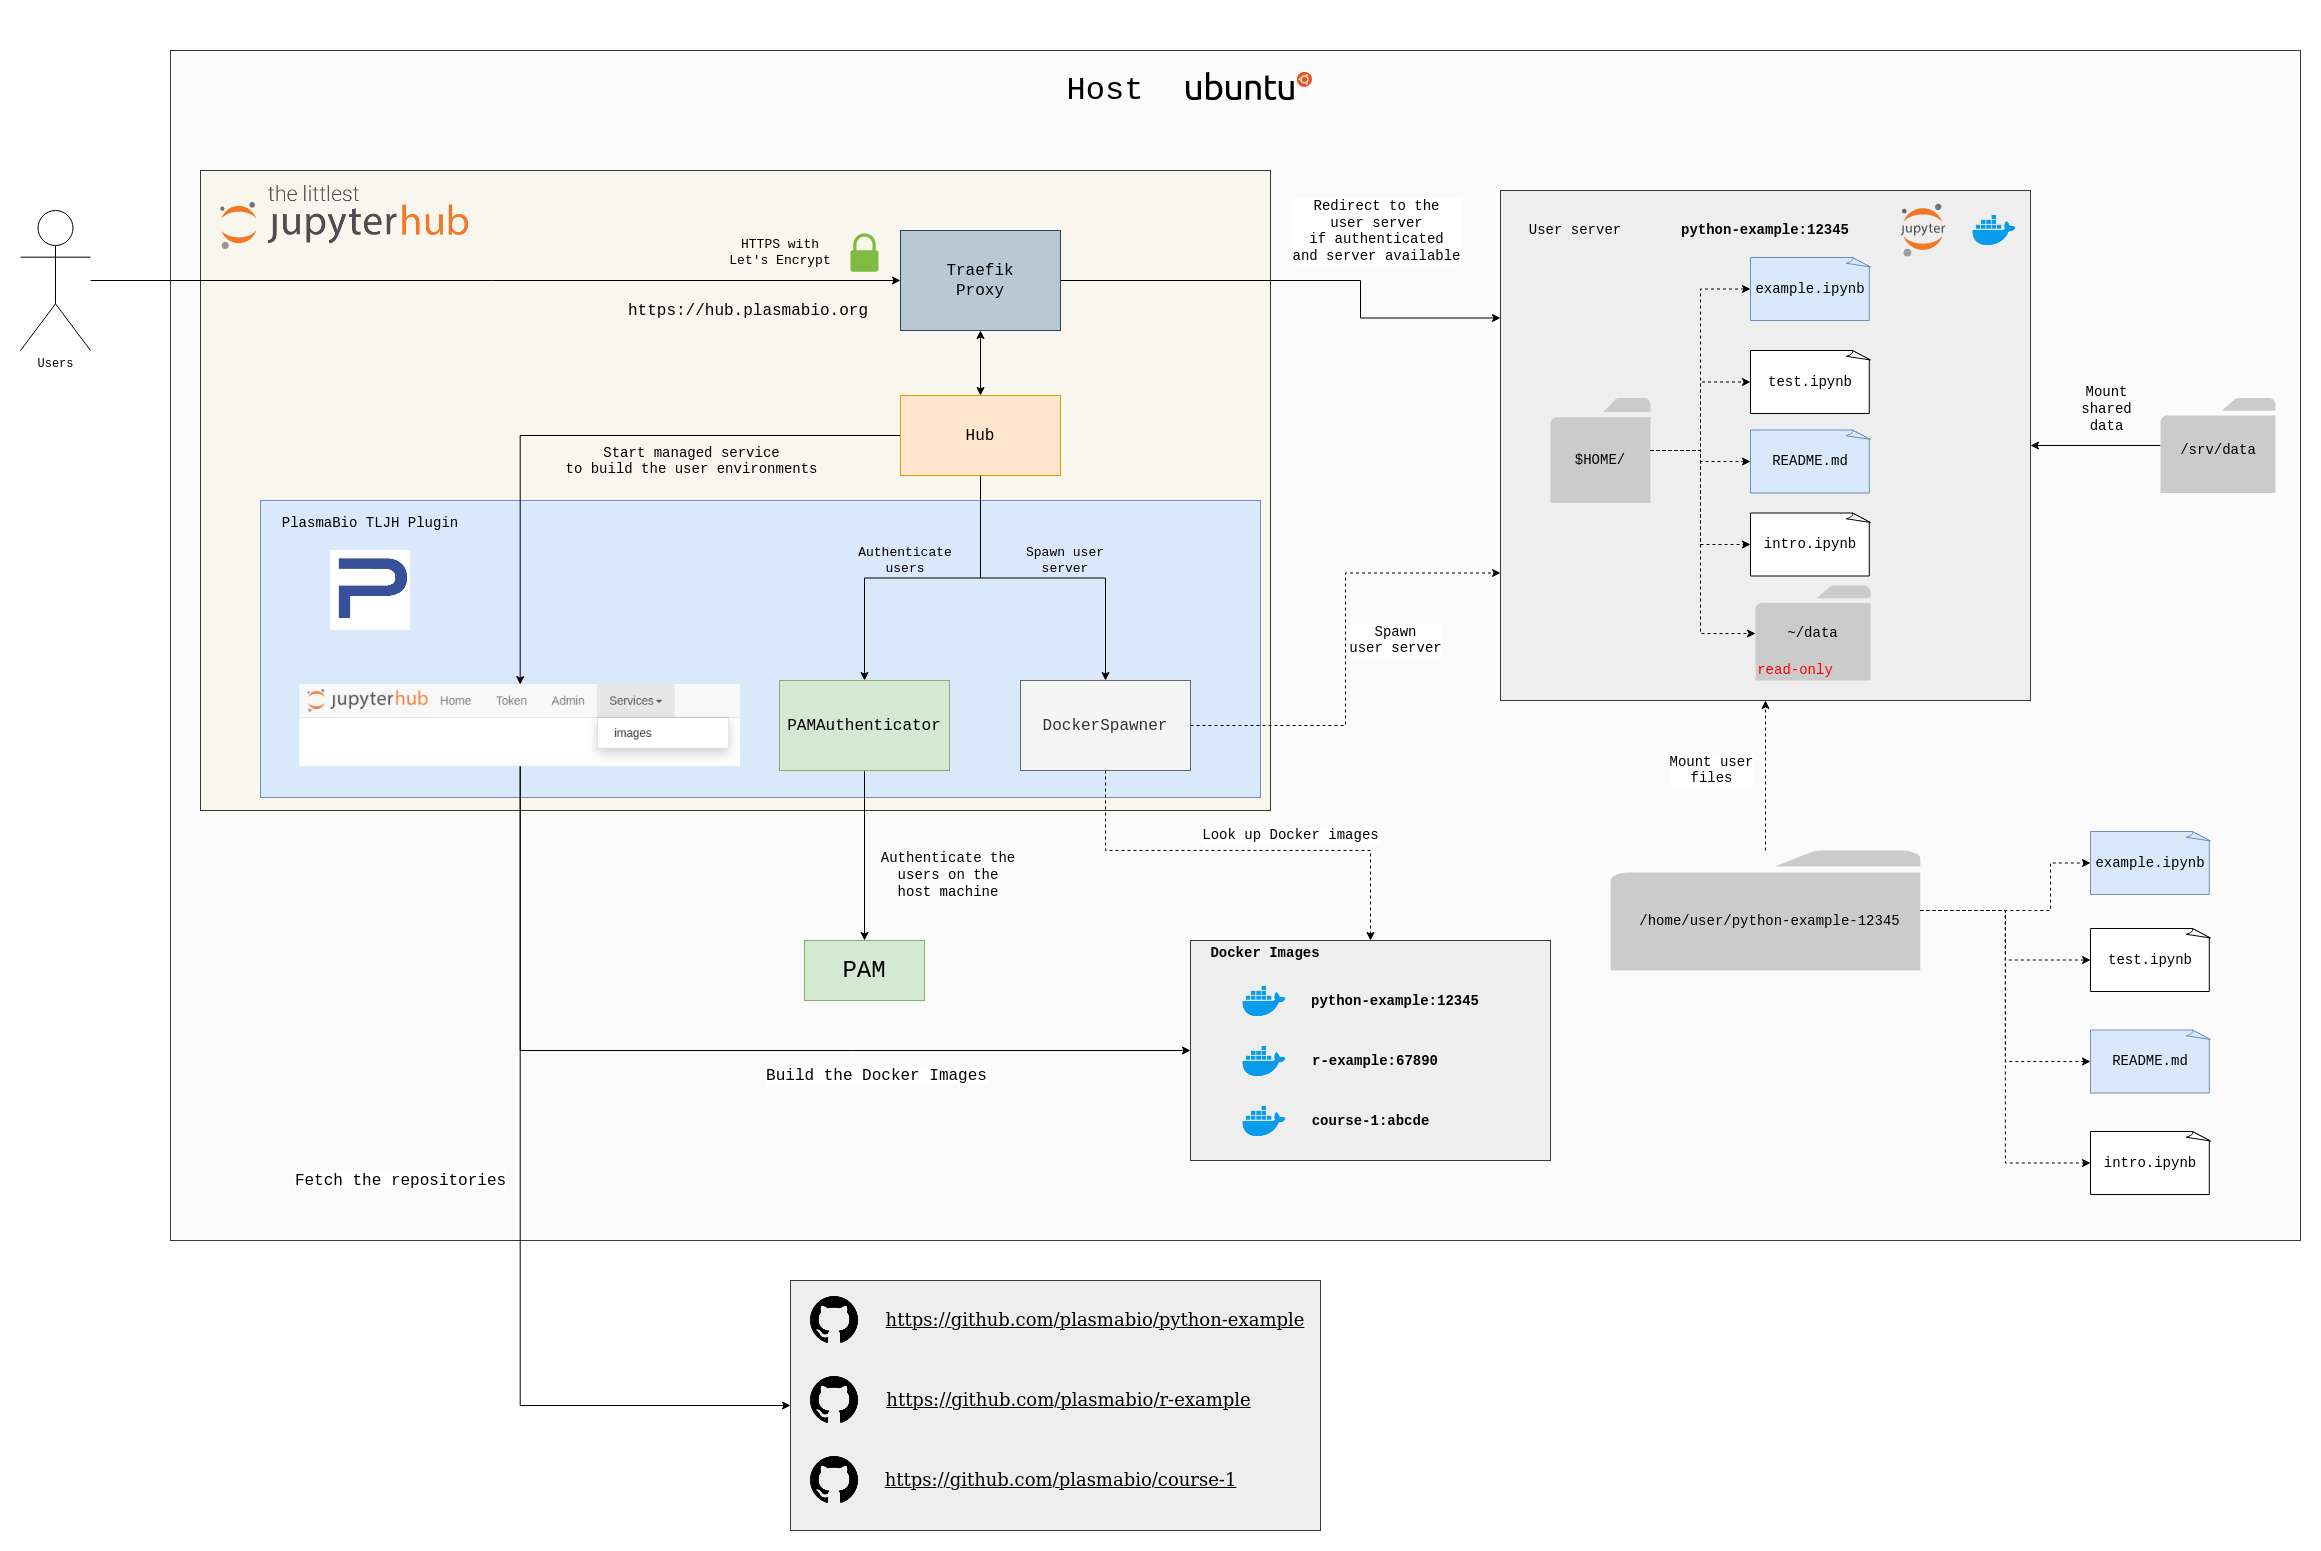
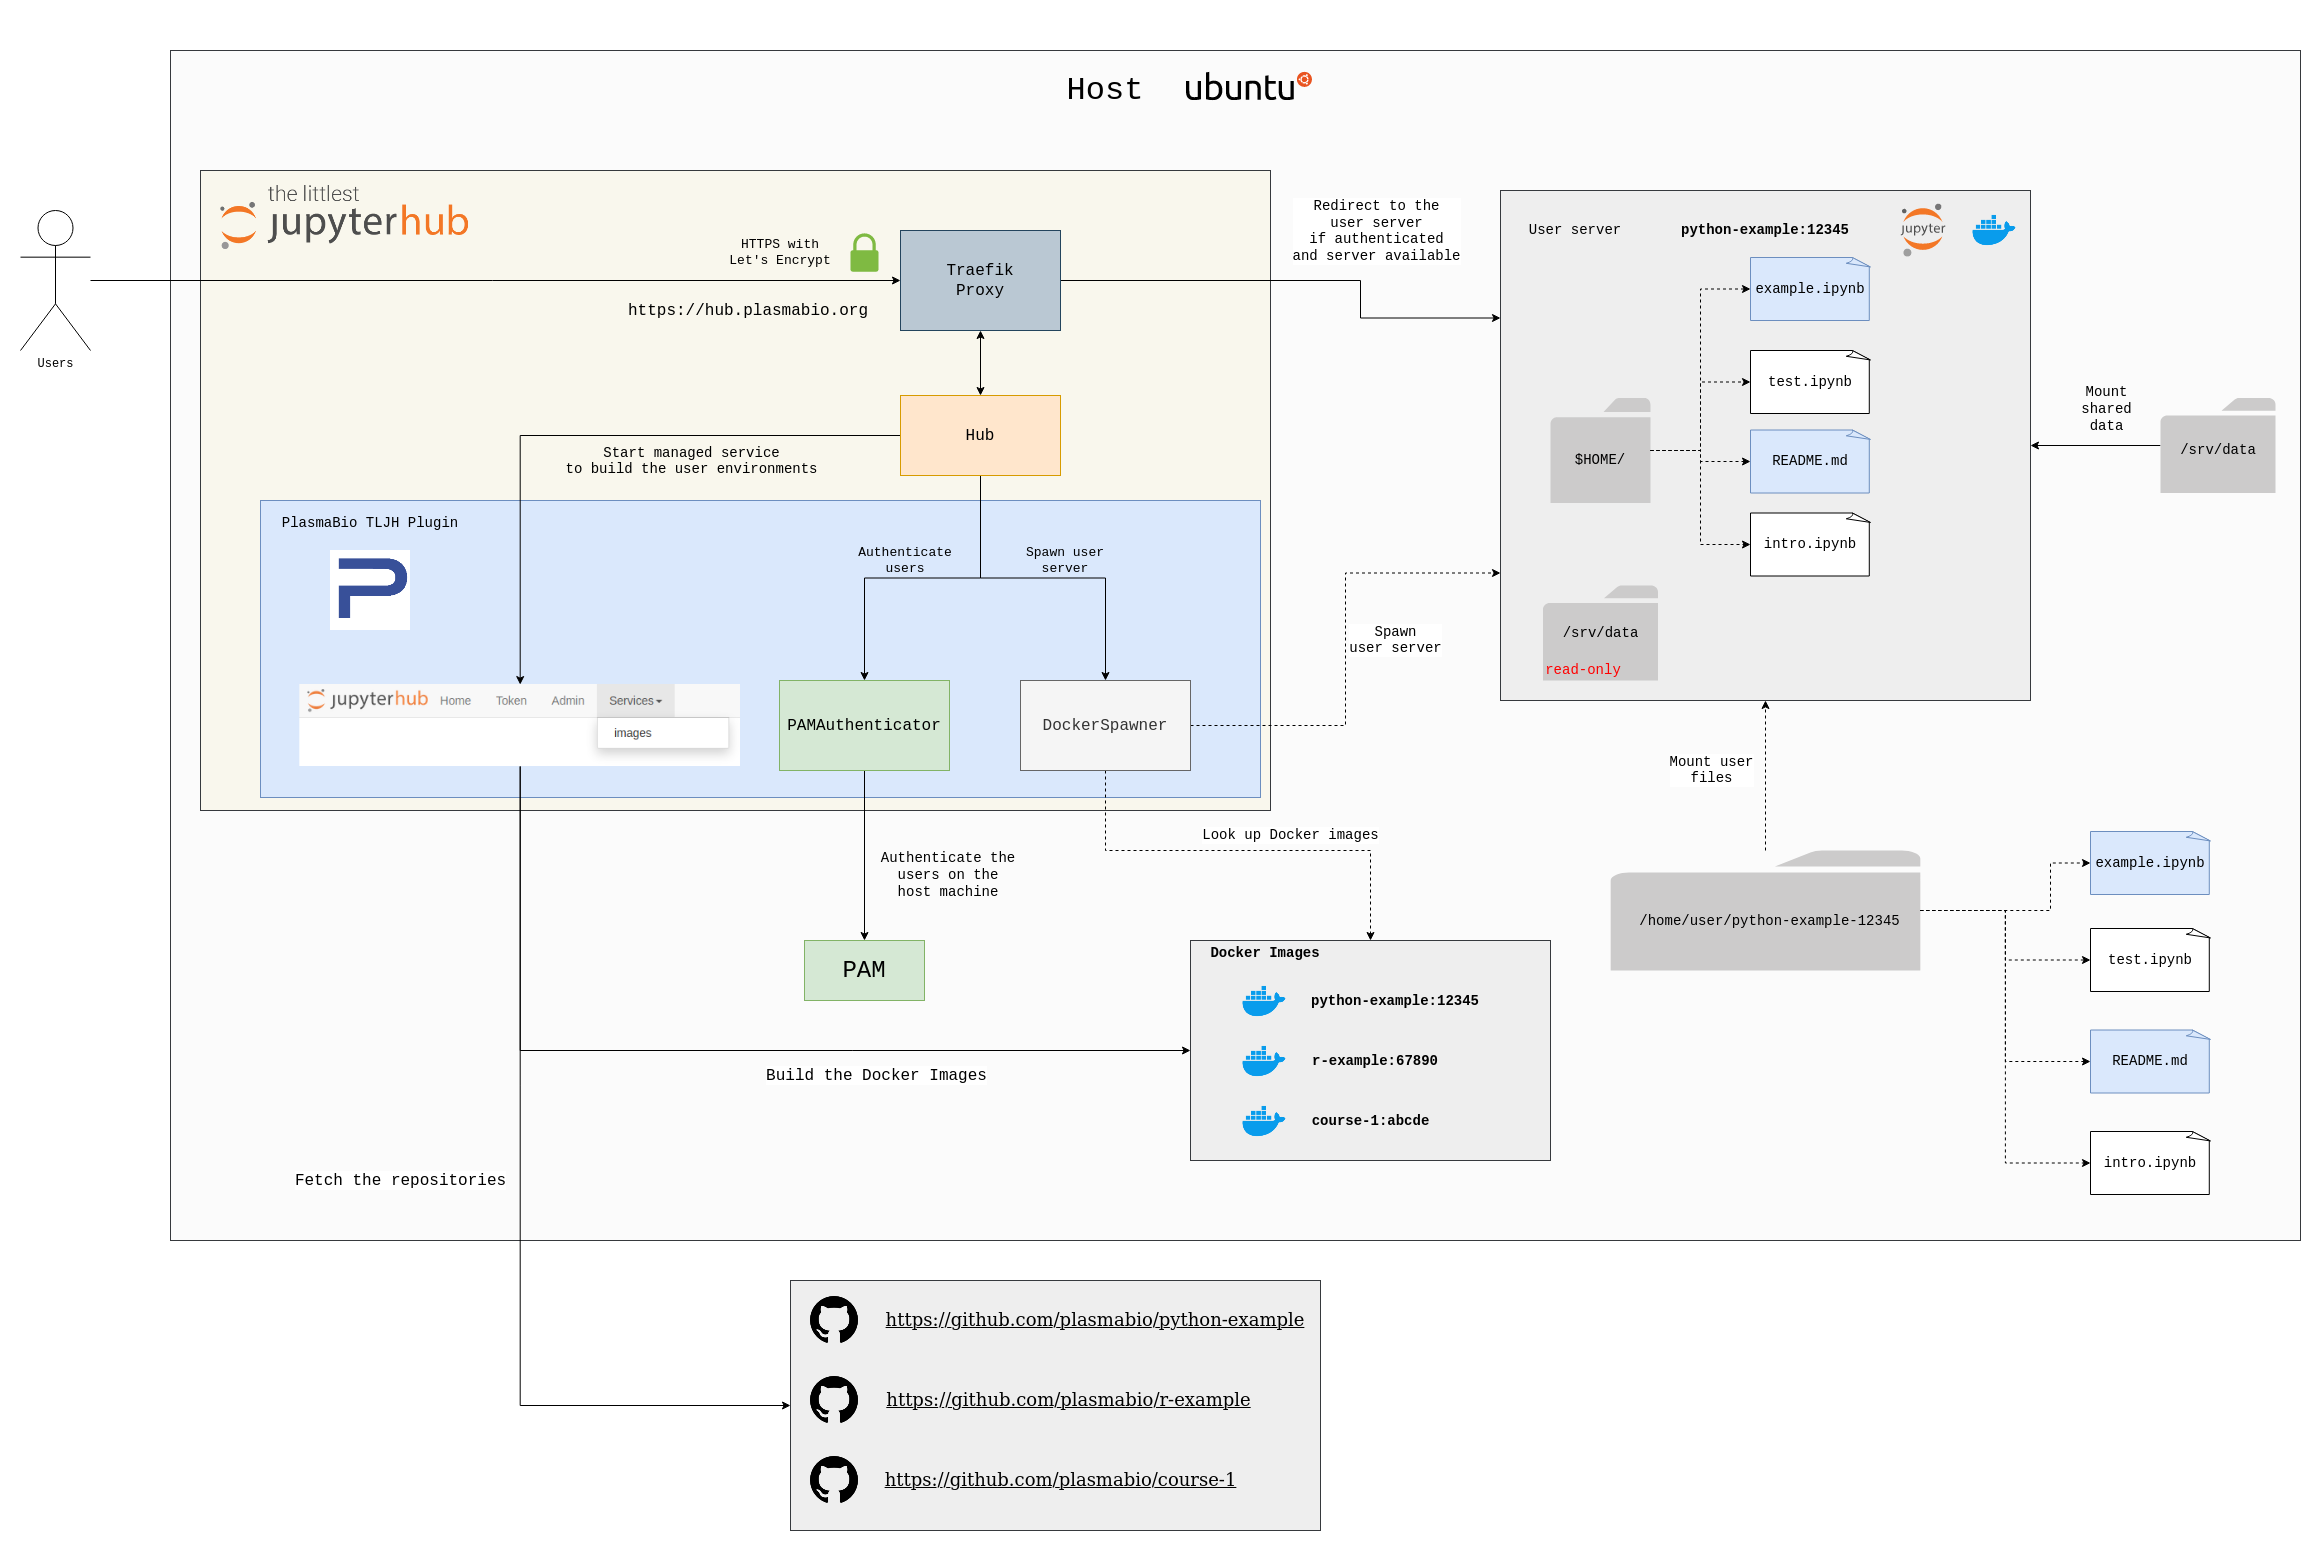
Update documentation on user home dir in the container

Changed region(s): [[0.7445, 0.3714, 0.8065, 0.4642], [0.6514, 0.3714, 0.7135, 0.4642]]

diff --git a/docs/configuration/persistence.rst b/docs/configuration/persistence.rst
@@ -32,10 +32,11 @@ For example when the user ``foo`` starts their server, the list of processes loo
 The following steps happen when a user starts their server:
 
 1. Mount the directory for the environment from the host into the container using the name of the image.
-   For example ``/home/user/plasmabio-template-python-12345`` will be mounted into ``/home/user`` inside the container.
+   For example ``/home/user/plasmabio-template-python-12345`` will be mounted into ``/home/user/plasmabio-template-python-12345`` inside the container.
    This has the advantage that everything is persisted to disk whenever a file is created from the notebook interface.
+   Also the file structure in the container reflects what is on the host.
 2. A new directory is created in the user home directory for each new environment (i.e for each Docker image).
-3. On server startup, the entrypoint script copies the files from the base image that are initially in ``/home/jovyan`` to ``/home/user``.
+3. On server startup, the entrypoint script copies the files from the base image that are initially in ``/home/jovyan`` to ``/home/user/plasmabio-template-python-12345`` in the container.
    They are then persisted in ``/home/user/plasmabio-template-python-12345`` on the host.
 
 .. image:: ../images/configuration/persistence.png
